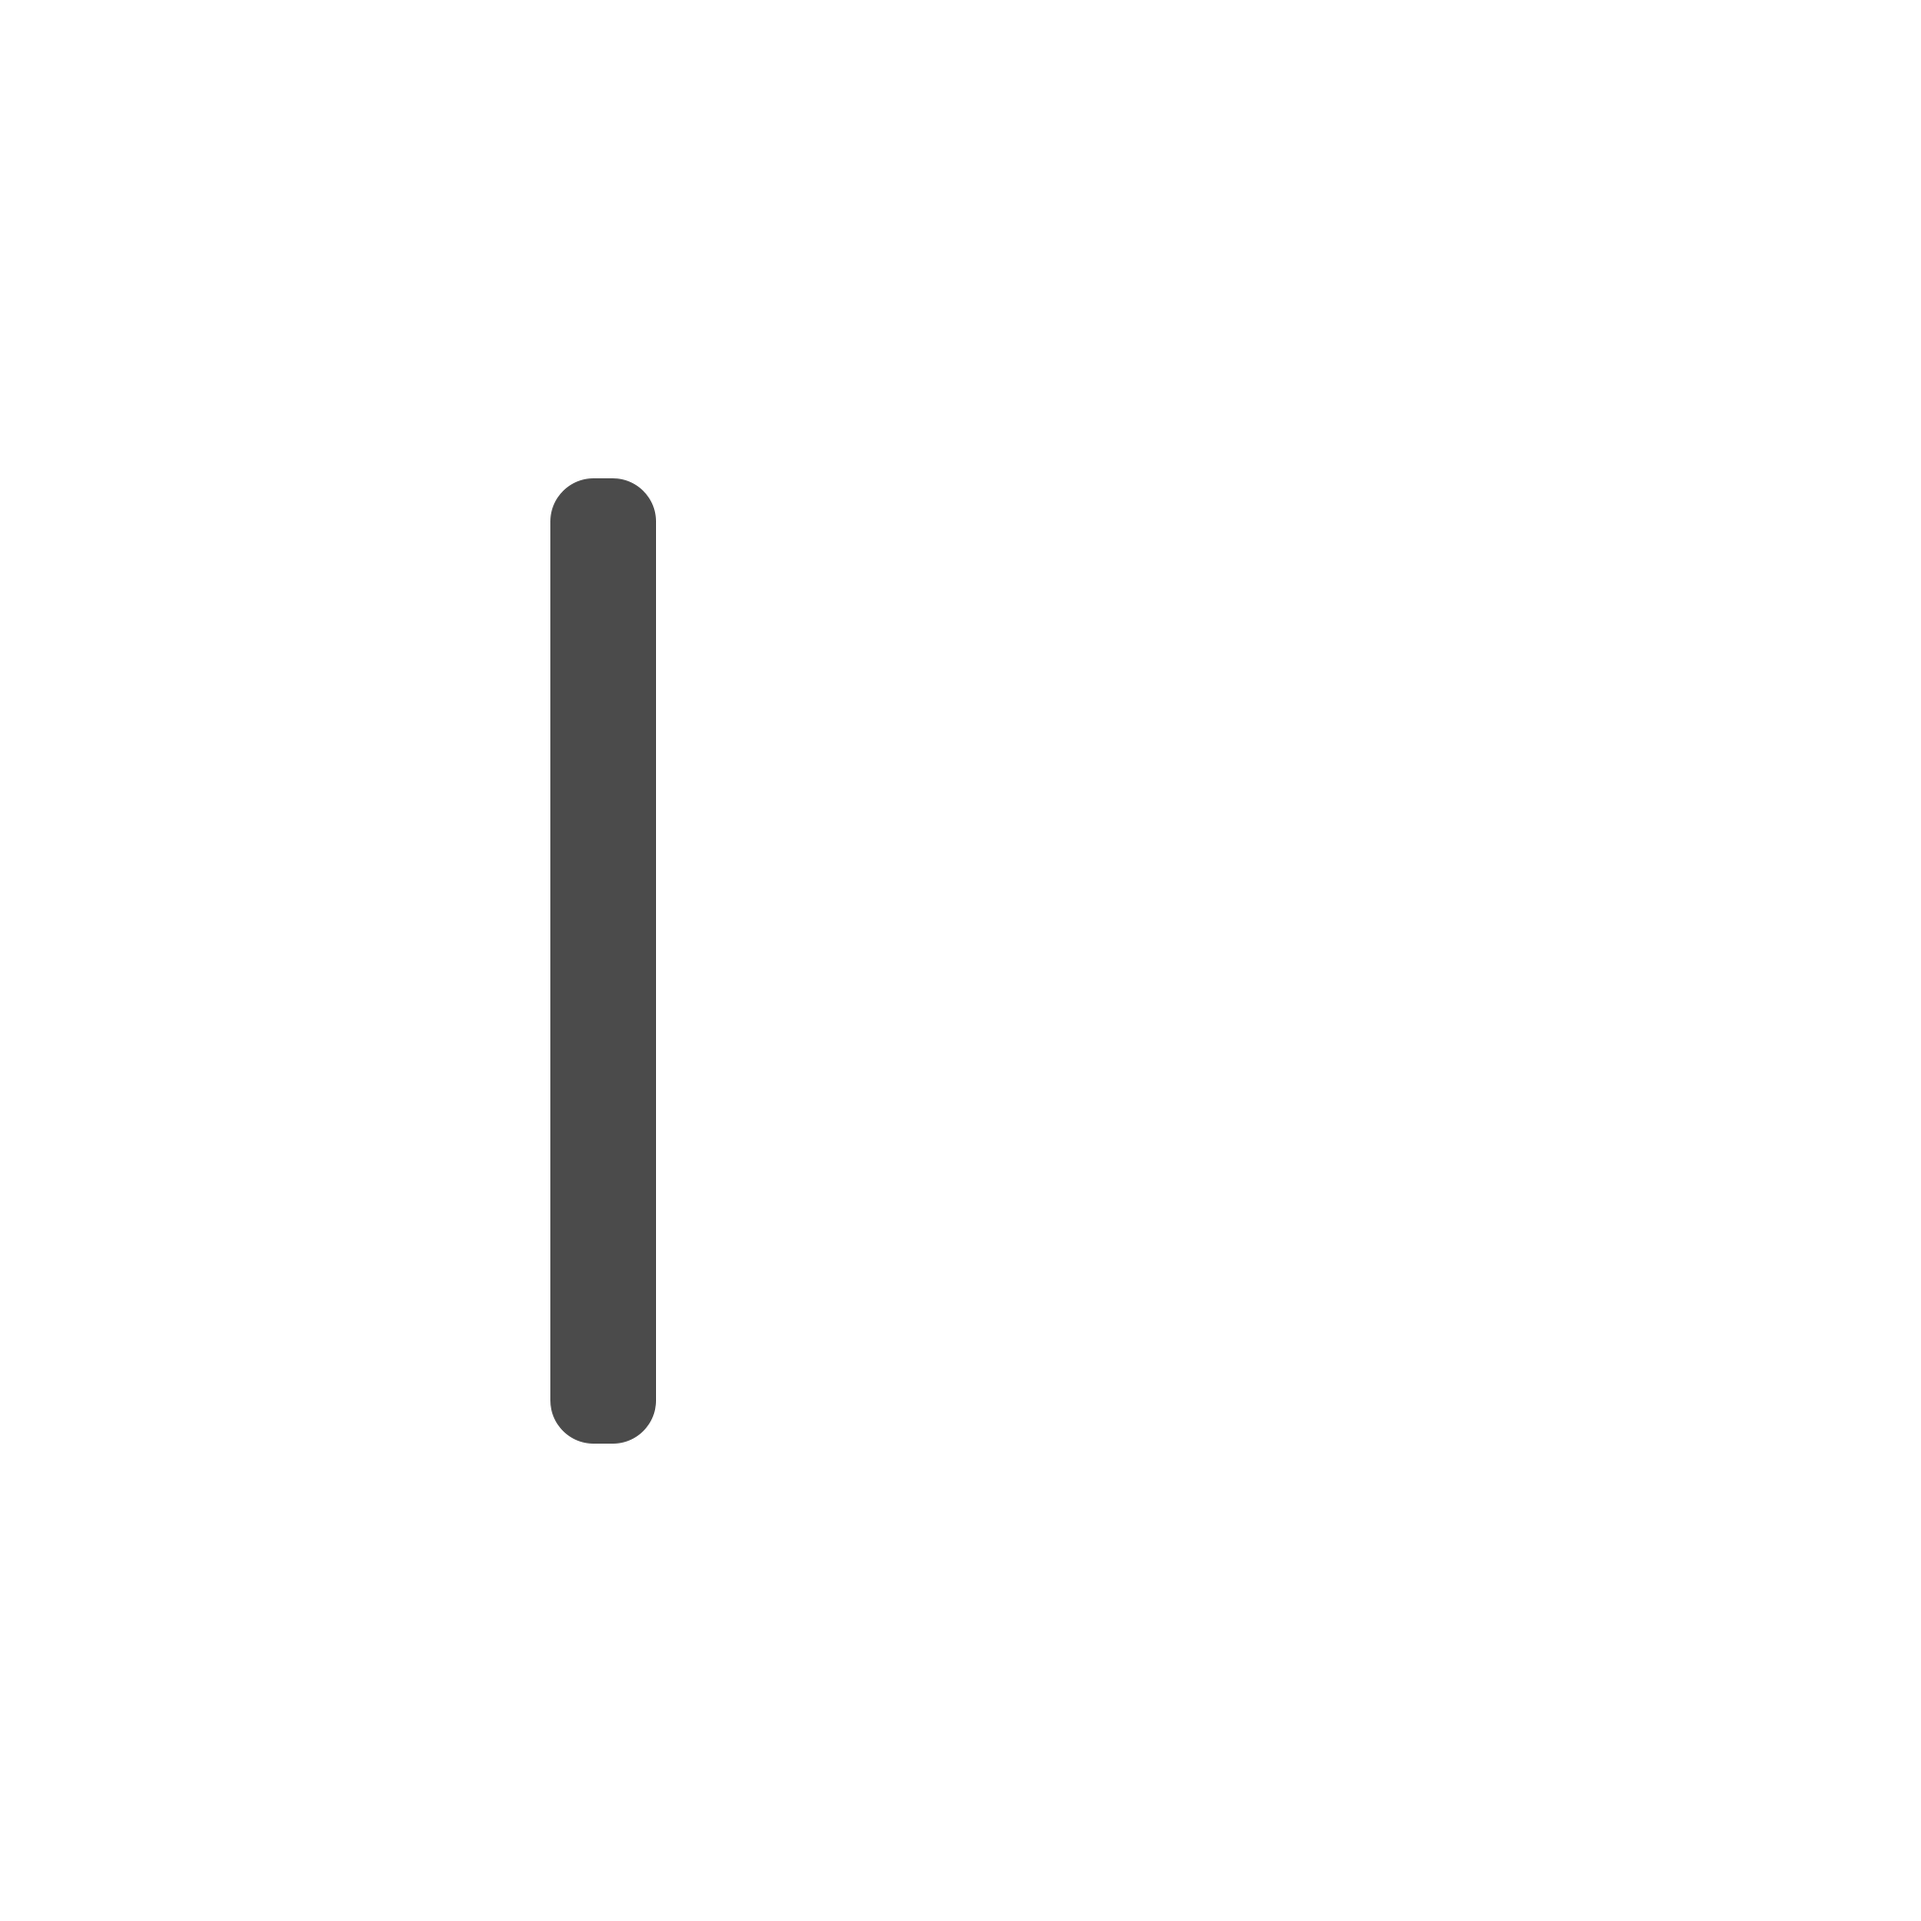
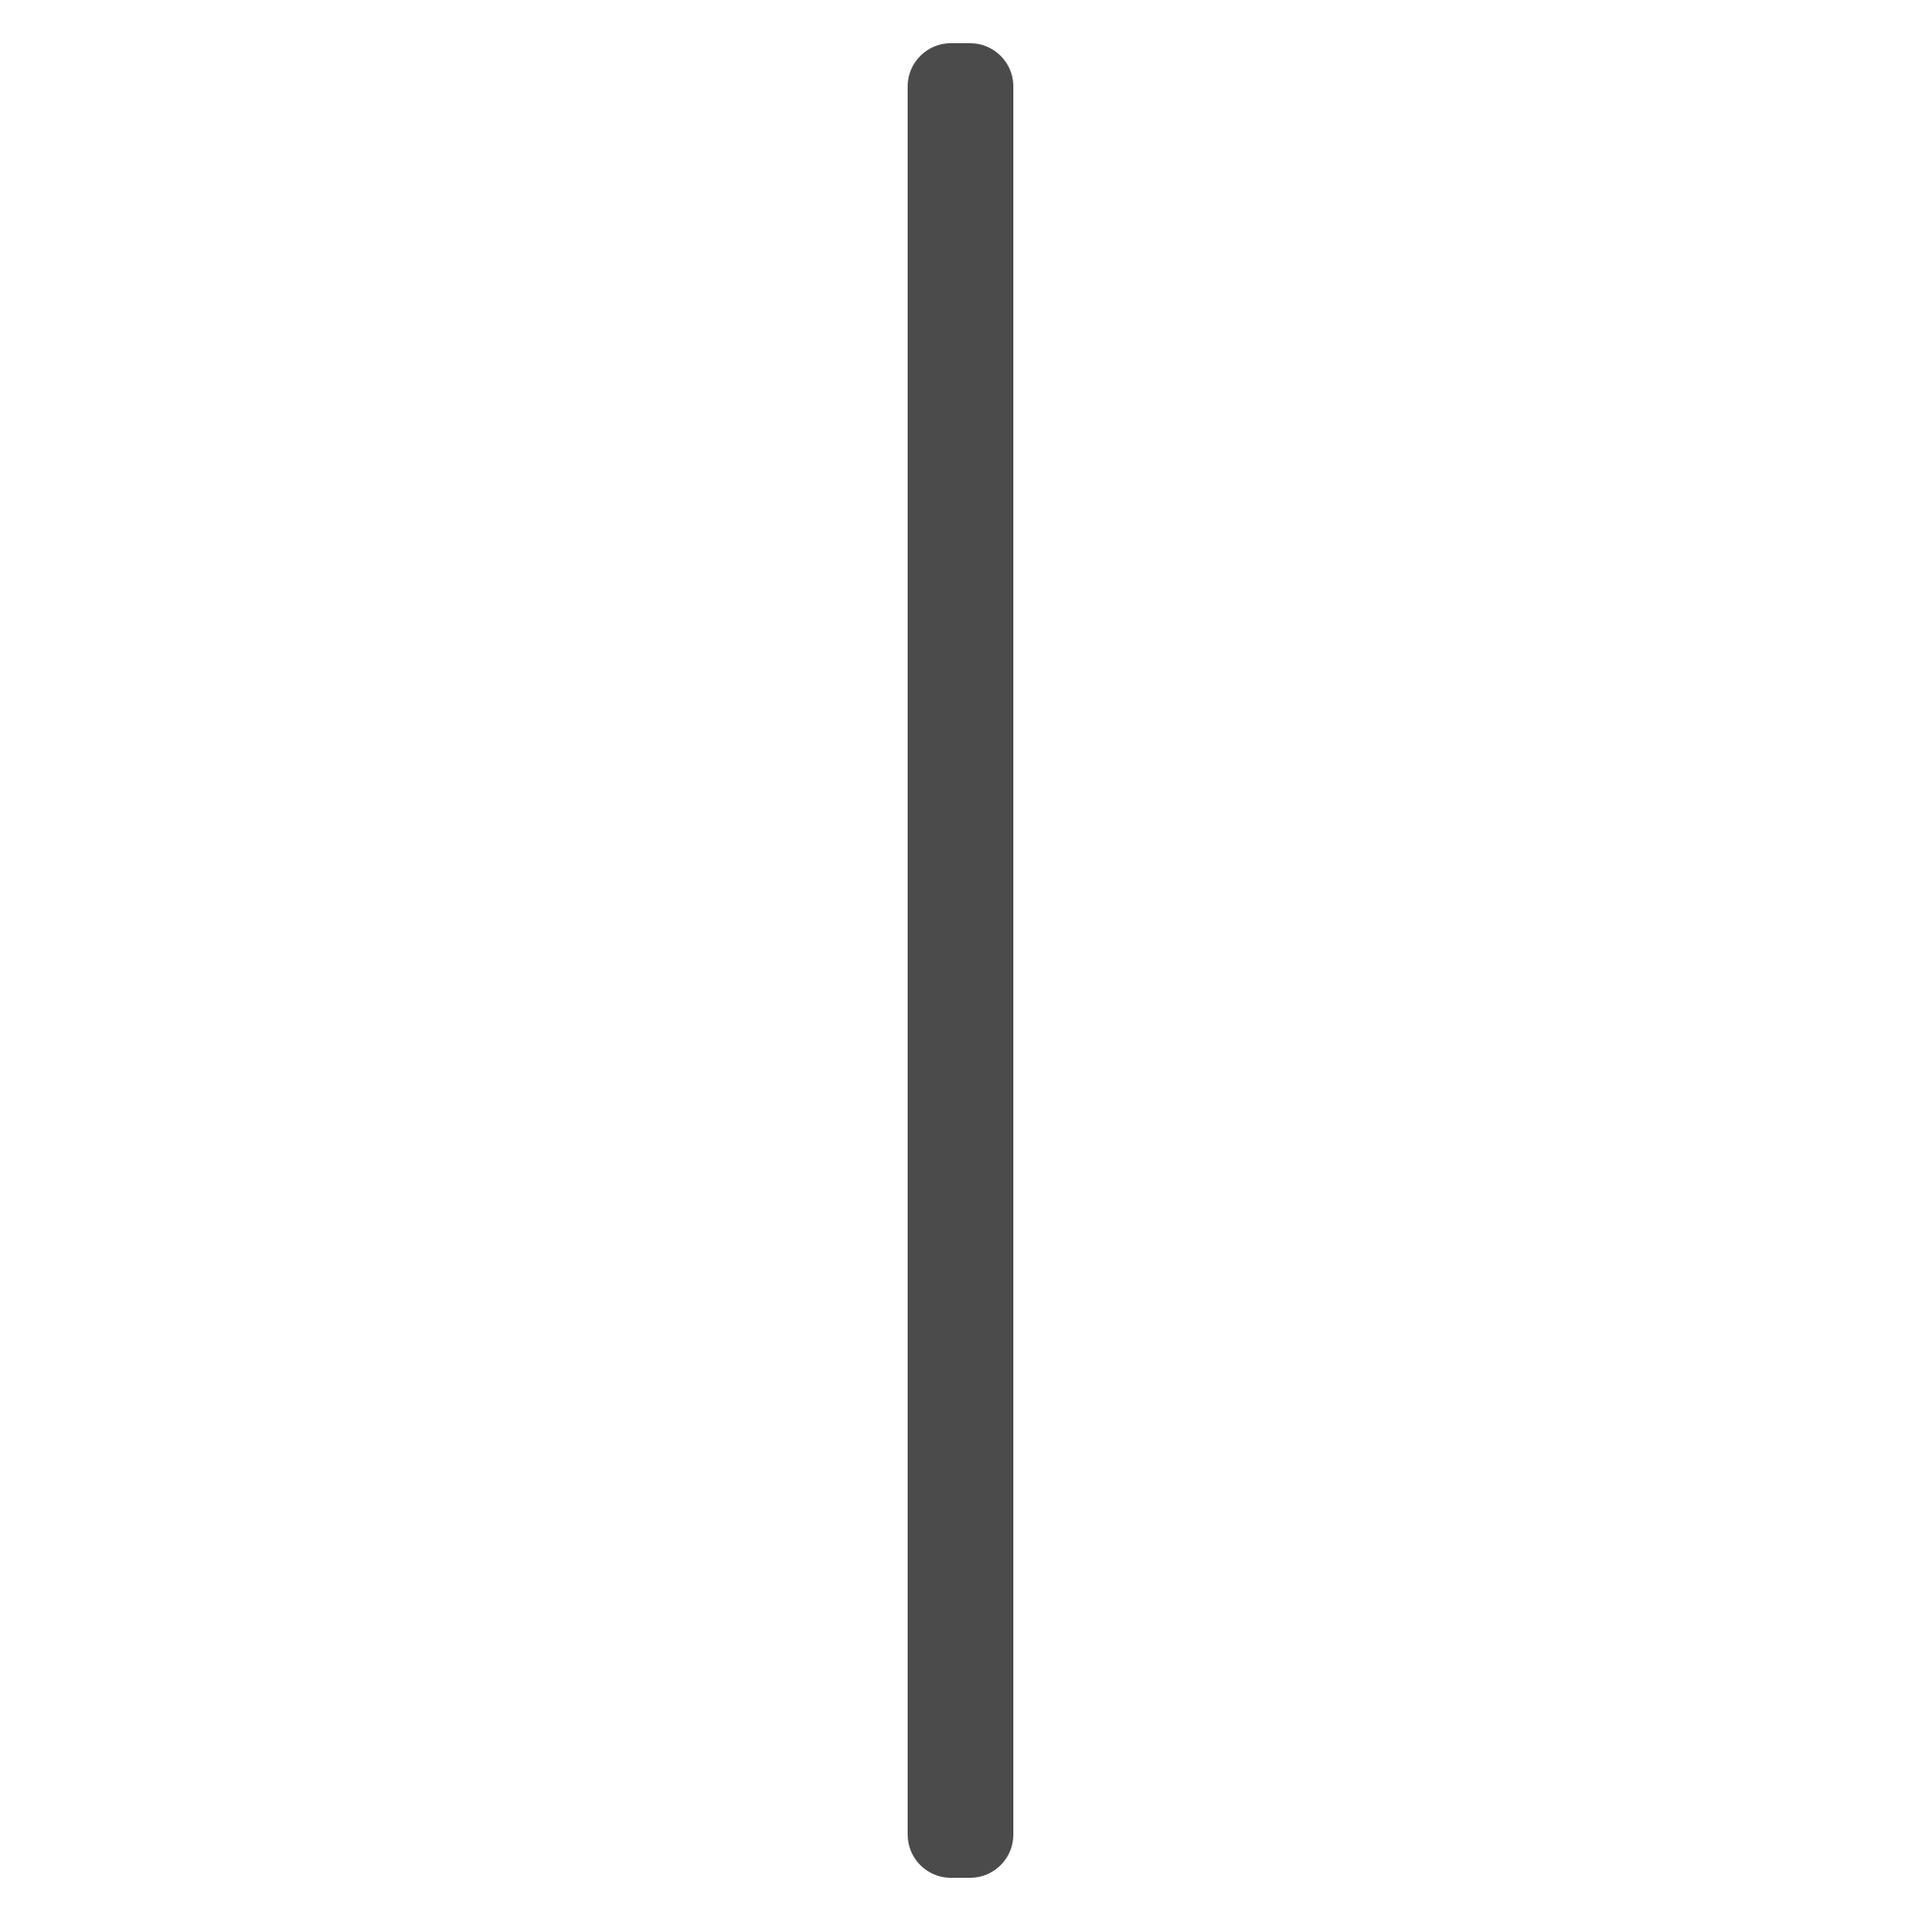
gateway fix

Changed region(s): [[0.465, 0.0, 0.527, 0.992], [0.279, 0.248, 0.341, 0.775]]

diff --git a/hydroPowerSim/src/hydro/HydroPowerSimulation.java b/hydroPowerSim/src/hydro/HydroPowerSimulation.java
@@ -19,8 +19,8 @@ public class HydroPowerSimulation implements GLEventListener {
 
     private Texture backgroundTex;
     private Texture turbineTex;
-    private Texture gatewayTex;
     private Texture waterFlowTex;
+    private Texture gatewayTex;
 
     private float waterFlowOffset = 0.0f;
 
@@ -90,8 +90,8 @@ public class HydroPowerSimulation implements GLEventListener {
         try {
             backgroundTex = TextureIO.newTexture(getClass().getResourceAsStream("/images/background.jpg"), false, "jpg");
             turbineTex = TextureIO.newTexture(getClass().getResourceAsStream("/images/turbine.png"), false, "png");
-            gatewayTex = TextureIO.newTexture(getClass().getResourceAsStream("/images/gateway.png"), false, "png");
             waterFlowTex = TextureIO.newTexture(getClass().getResourceAsStream("/images/waterflow.png"), false, "png");
+            gatewayTex = TextureIO.newTexture(getClass().getResourceAsStream("/images/gateway.png"), false, "png");
         } catch (IOException e) {
             e.printStackTrace();
         }
@@ -163,7 +163,7 @@ public class HydroPowerSimulation implements GLEventListener {
 
     private void drawTurbine(GL2 gl) {
         gl.glPushMatrix();
-        gl.glTranslatef(300, 250, 0);
+        gl.glTranslatef(450, 250, 0);
         gl.glRotatef(turbineAngle, 0, 0, 1);
 
         turbineTex.enable(gl);
@@ -181,22 +181,27 @@ public class HydroPowerSimulation implements GLEventListener {
         gl.glPopMatrix();
     }
 
+
     private void drawGateway(GL2 gl) {
-        float openY = 200 + gatewayOpenLevel * 100;
+        float maxHeight = 100f;
+        float height = maxHeight * (1.0f - gatewayOpenLevel); // Decrease height when opening
+        float yTop = 230f; // fixed top position
+        float yBottom = yTop+100 - height;
 
         gatewayTex.enable(gl);
         gatewayTex.bind(gl);
 
         gl.glPushMatrix();
-        gl.glTranslatef(100, openY - 50, 0);
-        float width = 40;
-        float height = 100 * gatewayOpenLevel;
+        gl.glTranslatef(100, yBottom, 0);
+
+        float texTop = 1.0f;
+        float texBottom = gatewayOpenLevel; // Texture shrinks from bottom upward
 
         gl.glBegin(GL2.GL_QUADS);
-        gl.glTexCoord2f(0, 0); gl.glVertex2f(0, 0);
-        gl.glTexCoord2f(1, 0); gl.glVertex2f(width, 0);
-        gl.glTexCoord2f(1, 1); gl.glVertex2f(width, height);
-        gl.glTexCoord2f(0, 1); gl.glVertex2f(0, height);
+        gl.glTexCoord2f(0, texTop); gl.glVertex2f(0, height);
+        gl.glTexCoord2f(1, texTop); gl.glVertex2f(40, height);
+        gl.glTexCoord2f(1, texBottom); gl.glVertex2f(40, 0);
+        gl.glTexCoord2f(0, texBottom); gl.glVertex2f(0, 0);
         gl.glEnd();
 
         gatewayTex.disable(gl);
